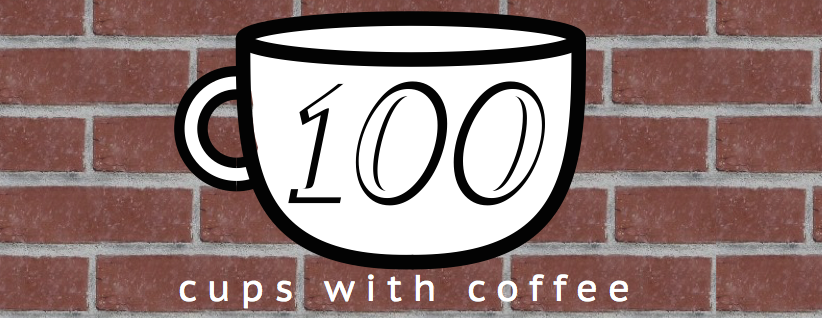
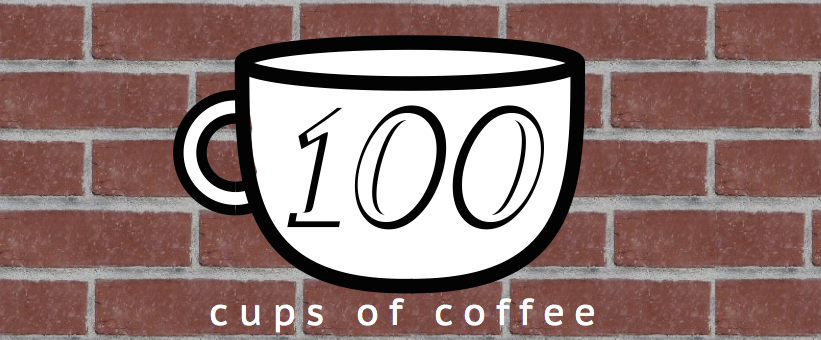
2 & 3

diff --git a/100cups/index.md b/100cups/index.md
@@ -18,4 +18,19 @@ tags: [coffee]
 
 Coffee prepares me for whatever happens next.
 <br><br>
-I moved to Washington - home of large coffee chains and coffee shops that dedicate themselves to the craft of coffee. Welcome to #100cupswithcoffee
+I moved to Washington - home of large coffee chains and coffee shops that dedicate themselves to the craft of coffee. Welcome to #100cupsofcoffee
+
+# 3
+
+<img src="/images/100cups/3.png"><br>
+Downpour latte.
+
+# 2
+
+<img src="/images/100cups/2.png"><br>
+Early morning at work.
+
+
+# 1
+
[1 lines of base64/hex data omitted]
